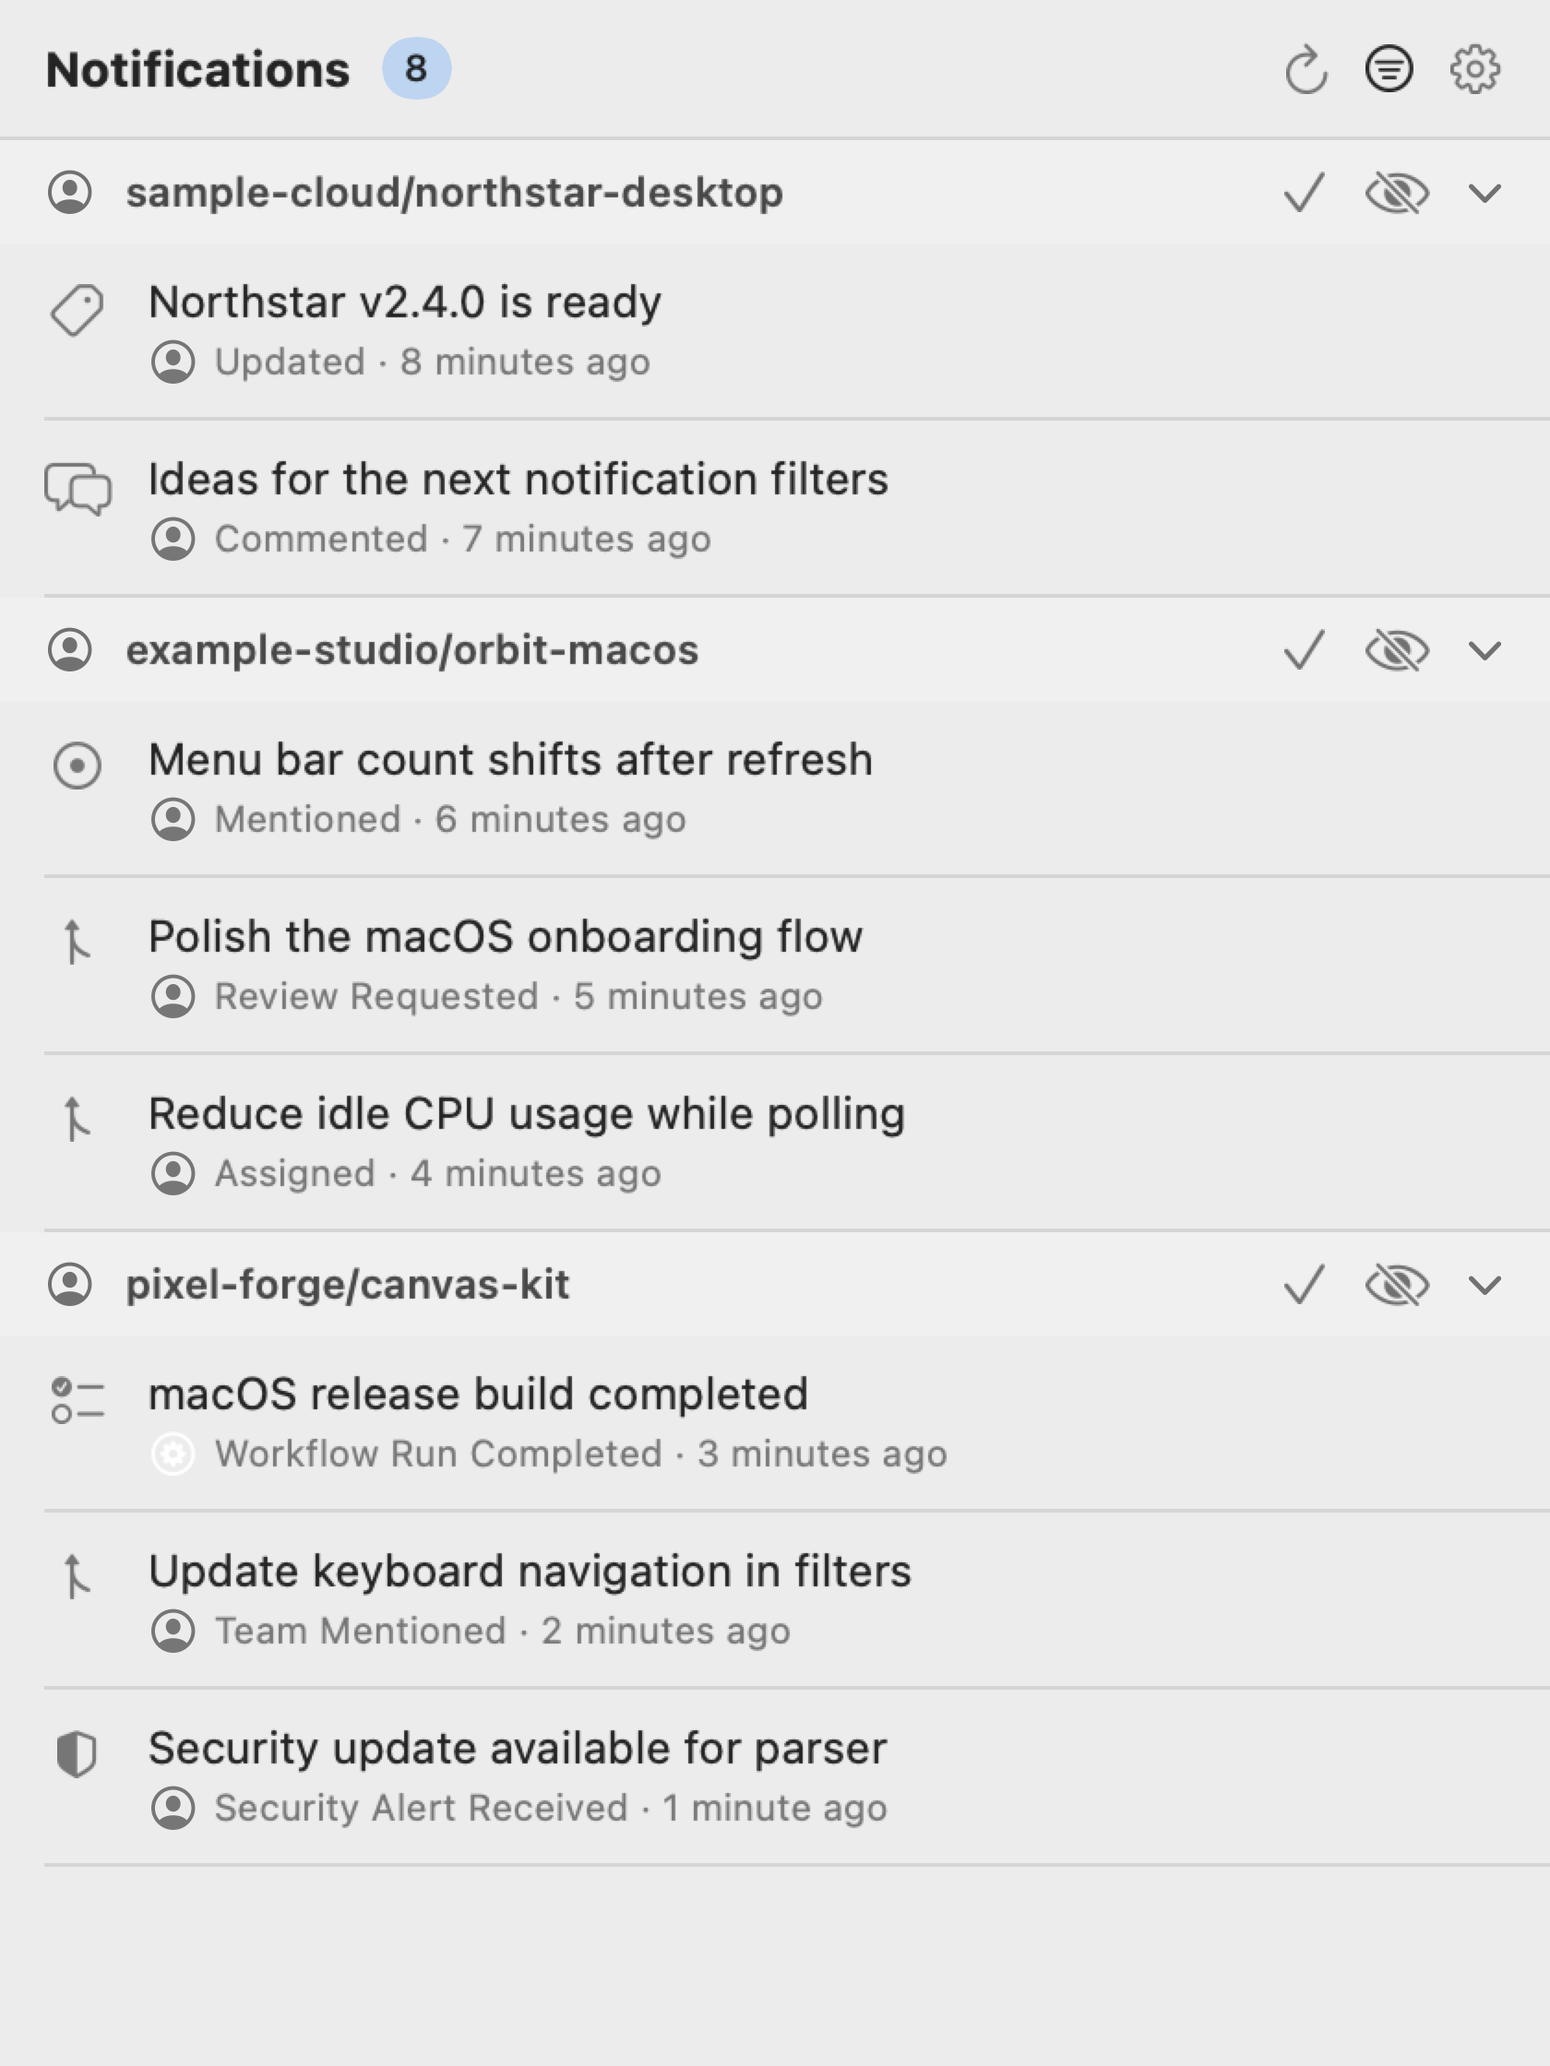
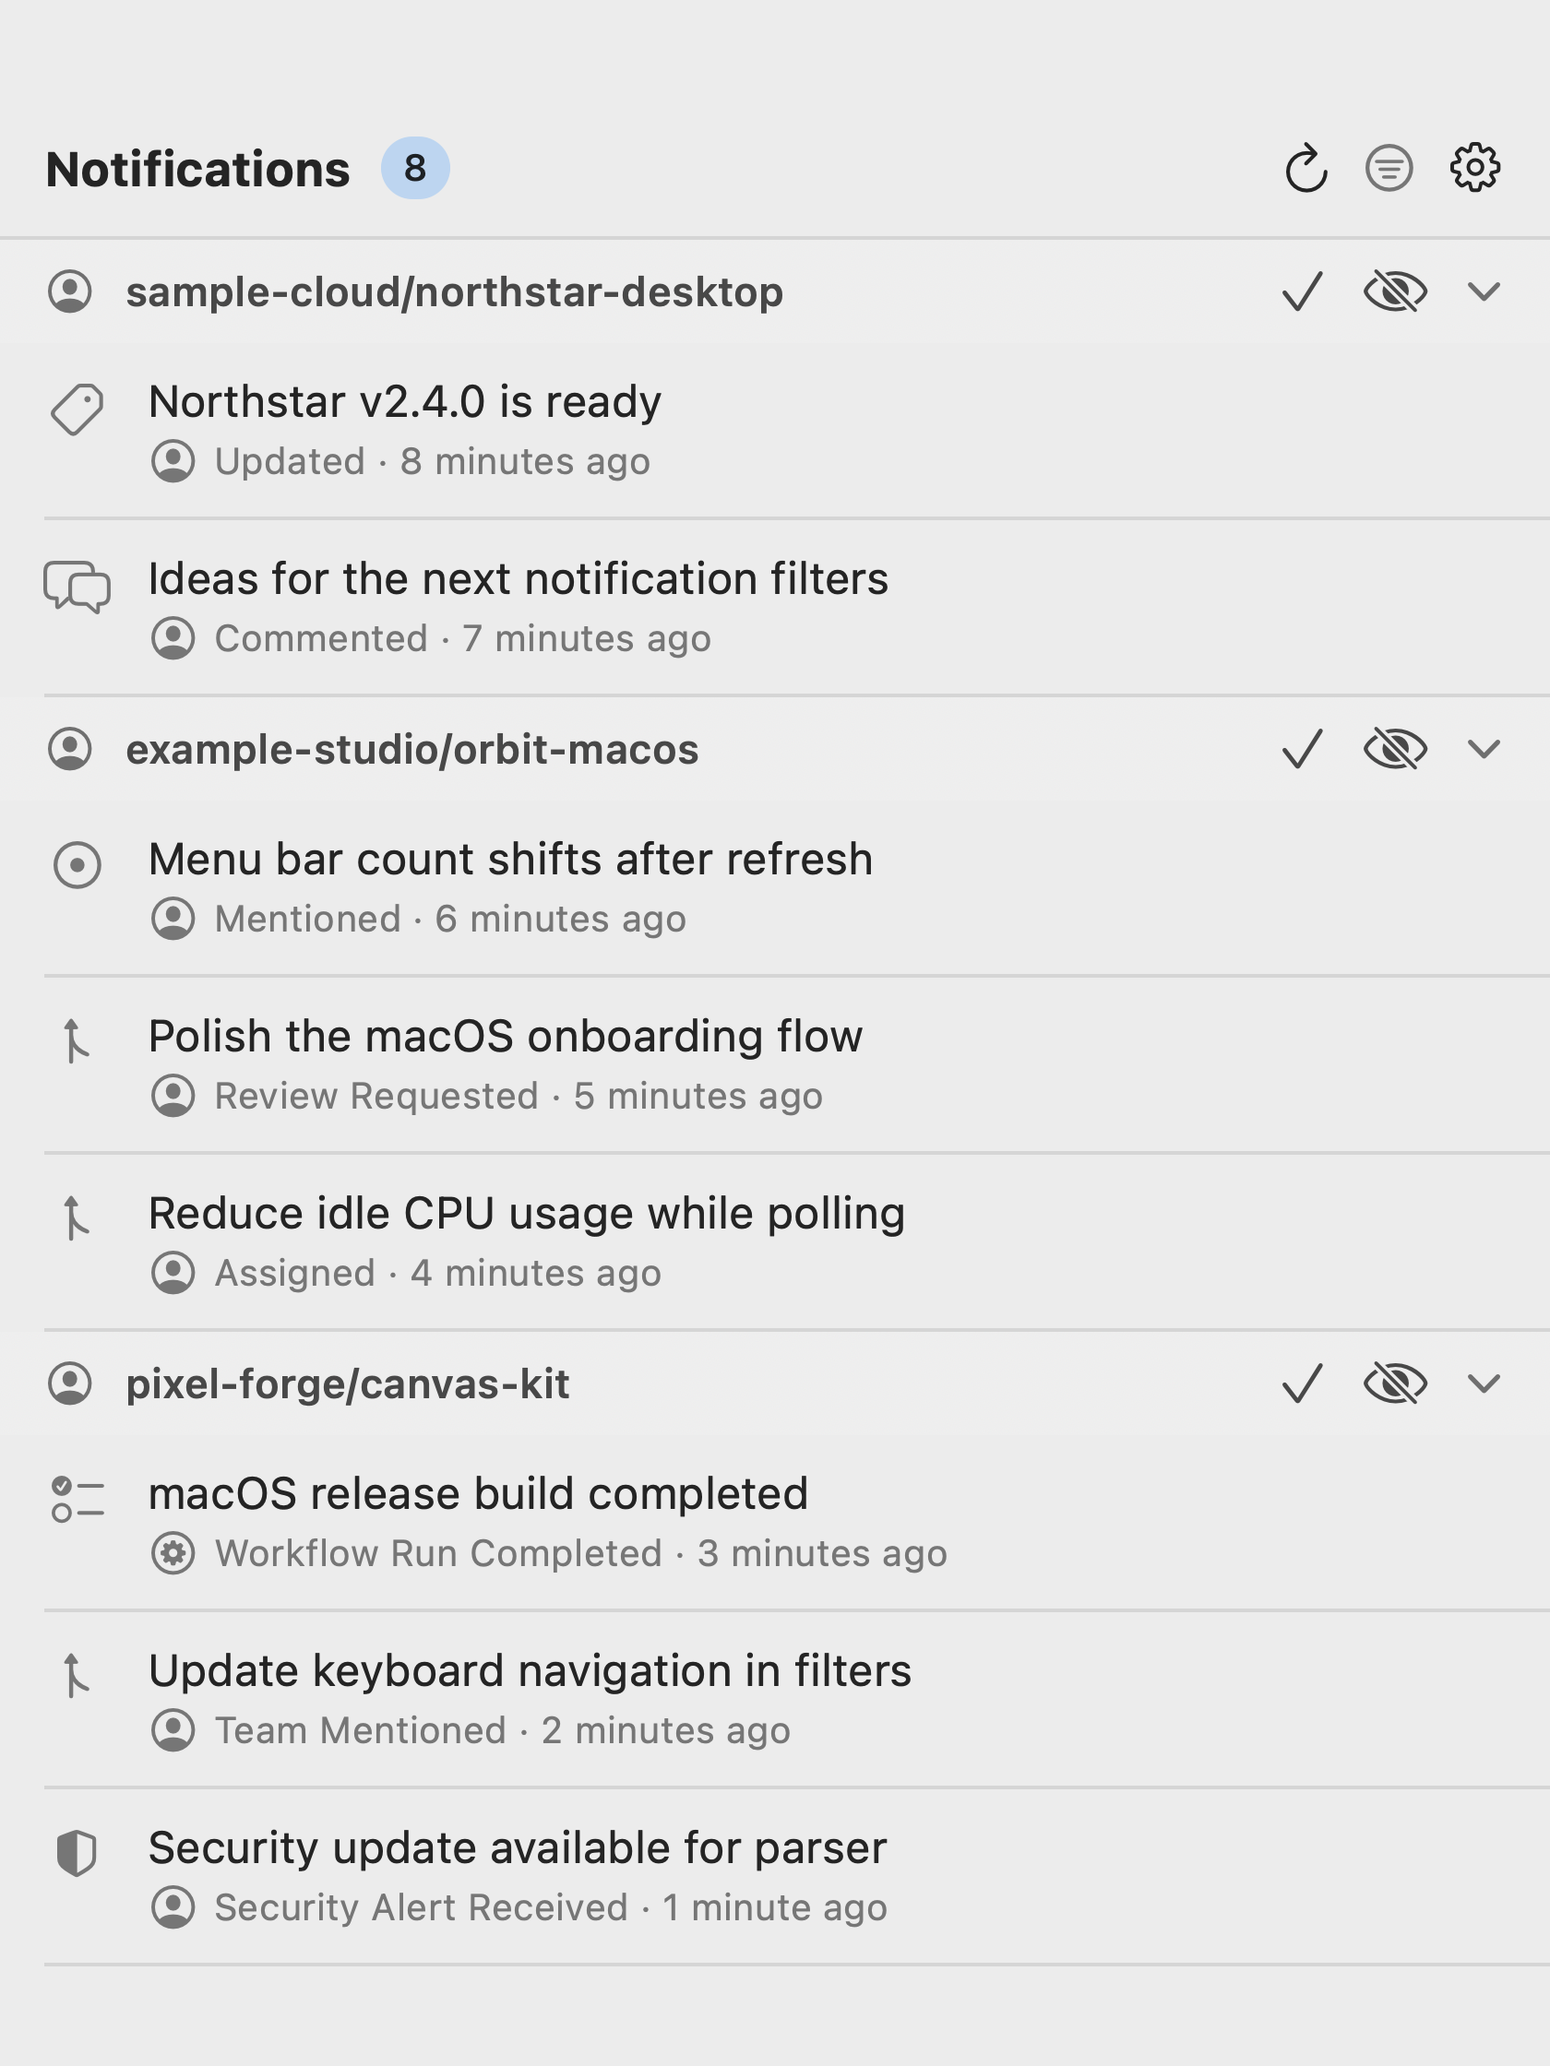
Redraw landing screenshot at true 4x density
Assisted-by: Codex:gpt-5.6-sol

diff --git a/Sources/UI/NotificationsListView.swift b/Sources/UI/NotificationsListView.swift
@@ -38,6 +38,22 @@ struct NotificationsListView: View {
             if notificationsStore.isFetching {
                 ProgressView().controlSize(.small)
             }
+            headerActions
+        }
+        .padding(.horizontal, 12)
+        .padding(.vertical, 10)
+    }
+
+    @ViewBuilder
+    private var headerActions: some View {
+        if UITestMock.isLandingScreenshot {
+            Image(systemName: "arrow.clockwise")
+            Image(systemName: filters.hasActiveFilters
+                ? "line.3.horizontal.decrease.circle.fill"
+                : "line.3.horizontal.decrease.circle")
+                .foregroundStyle(filters.hasActiveFilters ? Color.accentColor : Color.secondary)
+            Image(systemName: "gearshape")
+        } else {
             Button {
                 Task { await notificationsStore.fetch() }
             } label: {
@@ -59,8 +75,6 @@ struct NotificationsListView: View {
             .buttonStyle(.borderless)
             .help("Settings")
         }
-        .padding(.horizontal, 12)
-        .padding(.vertical, 10)
     }
 
     @ViewBuilder
@@ -84,33 +98,17 @@ struct NotificationsListView: View {
                         : "No new notifications."
                 )
             } else {
-                ScrollView {
-                    LazyVStack(spacing: 0, pinnedViews: .sectionHeaders) {
-                        ForEach(visibleGroups) { group in
-                            // Only an account whose header (and chevron) is
-                            // visible can be collapsed.
-                            let isAccountCollapsed = showAccountHeaders
-                                && collapsedAccounts.contains(group.id)
-                            if showAccountHeaders {
-                                AccountHeader(
-                                    account: group.account,
-                                    hasError: group.error != nil,
-                                    isCollapsed: isAccountCollapsed,
-                                    onToggleCollapse: { collapsedAccounts.toggle(group.id) }
-                                )
-                            }
-                            if !isAccountCollapsed {
-                                if let error = group.error {
-                                    inlineErrorBlock(error)
-                                } else {
-                                    switch settings.groupBy {
-                                    case .repository:
-                                        repositorySections(group)
-                                    case .date:
-                                        dateRows(group)
-                                    }
-                                }
-                            }
+                if UITestMock.isLandingScreenshot {
+                    // ImageRenderer has no viewport to drive scroll or lazy
+                    // layout. Materialize the deterministic fixture so every
+                    // real row is present in the 4× render.
+                    VStack(spacing: 0) {
+                        notificationGroups(visibleGroups)
+                    }
+                } else {
+                    ScrollView {
+                        LazyVStack(spacing: 0, pinnedViews: .sectionHeaders) {
+                            notificationGroups(visibleGroups)
                         }
                     }
                 }
@@ -120,6 +118,36 @@ struct NotificationsListView: View {
 
     private var showAccountHeaders: Bool {
         accountsStore.accounts.count > 1 || settings.showAccountHeader
+    }
+
+    @ViewBuilder
+    private func notificationGroups(_ visibleGroups: [AccountNotifications]) -> some View {
+        ForEach(visibleGroups) { group in
+            // Only an account whose header (and chevron) is visible can be
+            // collapsed.
+            let isAccountCollapsed = showAccountHeaders
+                && collapsedAccounts.contains(group.id)
+            if showAccountHeaders {
+                AccountHeader(
+                    account: group.account,
+                    hasError: group.error != nil,
+                    isCollapsed: isAccountCollapsed,
+                    onToggleCollapse: { collapsedAccounts.toggle(group.id) }
+                )
+            }
+            if !isAccountCollapsed {
+                if let error = group.error {
+                    inlineErrorBlock(error)
+                } else {
+                    switch settings.groupBy {
+                    case .repository:
+                        repositorySections(group)
+                    case .date:
+                        dateRows(group)
+                    }
+                }
+            }
+        }
     }
 
     // MARK: - Grouping modes
@@ -204,6 +232,28 @@ struct NotificationsListView: View {
             .buttonStyle(.plain)
             .help("Open repository")
             Spacer()
+            repositoryActions(repository: repository, account: account)
+            sectionCollapseToggle(
+                isCollapsed: isCollapsed,
+                label: repository.fullName,
+                action: onToggleCollapse
+            )
+        }
+        .padding(.horizontal, 12)
+        .padding(.vertical, 6)
+        // Lightest material that still masks rows scrolling under the pinned
+        // header; .bar reads as a heavy chrome strip on the popover material.
+        .background(.ultraThinMaterial)
+        .contentShape(Rectangle())
+        .onTapGesture(perform: onToggleCollapse)
+    }
+
+    @ViewBuilder
+    private func repositoryActions(repository: GHNotification.Repository, account: Account) -> some View {
+        if UITestMock.isLandingScreenshot {
+            Image(systemName: "checkmark")
+            Image(systemName: "eye.slash")
+        } else {
             Button {
                 Task { await notificationsStore.markRepoDone(fullName: repository.fullName, account: account) }
             } label: {
@@ -218,19 +268,7 @@ struct NotificationsListView: View {
             }
             .buttonStyle(.borderless)
             .help("Mark repository as read")
-            sectionCollapseToggle(
-                isCollapsed: isCollapsed,
-                label: repository.fullName,
-                action: onToggleCollapse
-            )
         }
-        .padding(.horizontal, 12)
-        .padding(.vertical, 6)
-        // Lightest material that still masks rows scrolling under the pinned
-        // header; .bar reads as a heavy chrome strip on the popover material.
-        .background(.ultraThinMaterial)
-        .contentShape(Rectangle())
-        .onTapGesture(perform: onToggleCollapse)
     }
 
     private func emptyState(

diff --git a/Sources/UI/LandingScreenshotRenderer.swift b/Sources/UI/LandingScreenshotRenderer.swift
@@ -1,43 +1,47 @@
 import AppKit
+import SwiftUI
 
-/// Produces the public landing-page image from the live popover view. Caching
-/// the already-laid-out view into a 4× bitmap preserves SwiftUI's native
-/// controls and symbols while avoiding the 1× display density of GitHub-hosted
-/// macOS runners without interpolating app pixels.
+/// Produces the public landing-page image by asking SwiftUI to redraw the
+/// popover at 4×. This does not depend on the CI runner's 1× window backing
+/// scale, so text and symbols contain real high-density pixels.
 @MainActor
 enum LandingScreenshotRenderer {
     static let pointSize = CGSize(width: 420, height: 560)
 
     enum RenderError: Error {
-        case unexpectedViewSize(CGSize)
-        case bitmapUnavailable
+        case imageUnavailable
+        case unexpectedPixelSize(width: Int, height: Int)
         case pngUnavailable
     }
 
-    static func write(view: NSView, to outputURL: URL) throws {
-        view.layoutSubtreeIfNeeded()
-        view.displayIfNeeded()
+    static func write(
+        settings: SettingsStore,
+        accountsStore: AccountsStore,
+        notificationsStore: NotificationsStore,
+        updateChecker: UpdateChecker,
+        to outputURL: URL
+    ) throws {
+        let content = PopoverRootView()
+            .environmentObject(settings)
+            .environmentObject(accountsStore)
+            .environmentObject(notificationsStore)
+            .environmentObject(notificationsStore.filters)
+            .environmentObject(updateChecker)
+        let renderer = ImageRenderer(content: content)
+        renderer.proposedSize = ProposedViewSize(pointSize)
+        renderer.scale = 4
+        renderer.isOpaque = true
 
-        guard view.bounds.size == pointSize else {
-            throw RenderError.unexpectedViewSize(view.bounds.size)
+        guard let image = renderer.cgImage else {
+            throw RenderError.imageUnavailable
         }
-        guard let bitmap = NSBitmapImageRep(
-            bitmapDataPlanes: nil,
-            pixelsWide: 1680,
-            pixelsHigh: 2240,
-            bitsPerSample: 8,
-            samplesPerPixel: 4,
-            hasAlpha: true,
-            isPlanar: false,
-            colorSpaceName: .deviceRGB,
-            bytesPerRow: 0,
-            bitsPerPixel: 0
-        ) else {
-            throw RenderError.bitmapUnavailable
+        let bitmap = NSBitmapImageRep(cgImage: image)
+        guard bitmap.pixelsWide == 1680, bitmap.pixelsHigh == 2240 else {
+            throw RenderError.unexpectedPixelSize(
+                width: bitmap.pixelsWide,
+                height: bitmap.pixelsHigh
+            )
         }
-        bitmap.size = pointSize
-        view.cacheDisplay(in: view.bounds, to: bitmap)
-
         guard let png = bitmap.representation(using: .png, properties: [:]) else {
             throw RenderError.pngUnavailable
         }

diff --git a/Tests/GitifyUITests/PopoverStabilityUITests.swift b/Tests/GitifyUITests/PopoverStabilityUITests.swift
@@ -71,6 +71,23 @@ final class PopoverStabilityUITests: XCTestCase {
         let representation = try! XCTUnwrap(NSImage(contentsOf: url)?.representations.first)
         XCTAssertEqual(representation.pixelsWide, 1680)
         XCTAssertEqual(representation.pixelsHigh, 2240)
+        let bitmap = try! XCTUnwrap(NSBitmapImageRep(data: try! Data(contentsOf: url)))
+        var prohibitedSymbolPixels = 0
+        for y in stride(from: 0, to: bitmap.pixelsHigh, by: 4) {
+            for x in stride(from: 0, to: bitmap.pixelsWide, by: 4) {
+                guard let color = bitmap.colorAt(x: x, y: y)?.usingColorSpace(.deviceRGB) else { continue }
+                if color.redComponent > 0.9,
+                   color.greenComponent > 0.55,
+                   color.blueComponent < 0.2
+                {
+                    prohibitedSymbolPixels += 1
+                }
+            }
+        }
+        XCTAssertEqual(
+            prohibitedSymbolPixels, 0,
+            "rendered screenshot should not contain SF Symbol prohibition placeholders"
+        )
         let fileSize = try! XCTUnwrap(
             (try? FileManager.default.attributesOfItem(atPath: url.path)[.size]) as? NSNumber
         )

diff --git a/Sources/App/StatusItemController.swift b/Sources/App/StatusItemController.swift
@@ -116,12 +116,17 @@ final class StatusItemController: NSObject {
               popover.isShown,
               !notificationsStore.isFetching,
               notificationsStore.unreadCount == UITestMock.notificationCount,
-              let outputURL = UITestMock.landingScreenshotOutputURL,
-              let view = popover.contentViewController?.view
+              let outputURL = UITestMock.landingScreenshotOutputURL
         else { return }
 
         do {
-            try LandingScreenshotRenderer.write(view: view, to: outputURL)
+            try LandingScreenshotRenderer.write(
+                settings: settings,
+                accountsStore: accountsStore,
+                notificationsStore: notificationsStore,
+                updateChecker: updateChecker,
+                to: outputURL
+            )
             didCaptureLandingScreenshot = true
         } catch {
             NSLog("Failed to capture landing screenshot: \(error)")

diff --git a/Tests/DistributionTests/validate_distribution.py b/Tests/DistributionTests/validate_distribution.py
@@ -19,6 +19,7 @@ APP_SCREENSHOT = SITE_ROOT / "assets/gitify-popover.png"
 PAGES_WORKFLOW = ROOT / ".github/workflows/pages.yml"
 SCREENSHOT_EXPORT_SCRIPT = ROOT / "scripts/export-landing-screenshot.sh"
 LANDING_SCREENSHOT_RENDERER = ROOT / "Sources/UI/LandingScreenshotRenderer.swift"
+NOTIFICATIONS_LIST_VIEW = ROOT / "Sources/UI/NotificationsListView.swift"
 
 
 class LandingPageParser(HTMLParser):
@@ -120,9 +121,14 @@ class LandingPageTests(unittest.TestCase):
         self.assertNotIn("--cropToHeightWidth", export_script)
         self.assertTrue(LANDING_SCREENSHOT_RENDERER.exists())
         renderer = LANDING_SCREENSHOT_RENDERER.read_text()
-        self.assertIn("cacheDisplay", renderer)
-        self.assertIn("pixelsWide: 1680", renderer)
-        self.assertIn("pixelsHigh: 2240", renderer)
+        self.assertIn("ImageRenderer", renderer)
+        self.assertIn("renderer.scale = 4", renderer)
+        self.assertNotIn("cacheDisplay", renderer)
+        self.assertIn("pixelsWide == 1680", renderer)
+        self.assertIn("pixelsHigh == 2240", renderer)
+        notifications_view = NOTIFICATIONS_LIST_VIEW.read_text()
+        self.assertIn("if UITestMock.isLandingScreenshot", notifications_view)
+        self.assertIn("VStack(spacing: 0)", notifications_view)
         self.assertIn("path: docs/site", workflow)
         self.assertIn("contents: read", workflow)
         self.assertIn("pages: write", workflow)

diff --git a/docs/superpowers/specs/2026-09-22-distribution-and-landing-design.md b/docs/superpowers/specs/2026-09-22-distribution-and-landing-design.md
@@ -53,9 +53,11 @@ one-time quarantine removal required by macOS.
 ## Landing Page
 
 The site lives in `docs/site/` as plain HTML and CSS. It uses the existing app icon
-and an actual app screenshot produced during XCUITest from the live popover view at
-a fixed 4× resolution. It has no JavaScript, external fonts, analytics, package
-manager, or web build step.
+and an actual app screenshot produced during XCUITest from the popover's live store
+state with SwiftUI ImageRenderer at a fixed 4× resolution. The screenshot fixture
+materializes the list outside its normal lazy scroll container so every row is
+drawn at the requested density. It has no JavaScript, external fonts, analytics,
+package manager, or web build step.
 
 The page contains:
 
@@ -77,7 +79,7 @@ the application and repository documentation.
 ## GitHub Pages Deployment
 
 `.github/workflows/pages.yml` uses a macOS runner to launch the app with the
-landing-page UI fixture, render the live popover into a 1680×2240 bitmap, and
+landing-page UI fixture, render the populated popover into a 1680×2240 bitmap, and
 replace the committed fallback image before it deploys `docs/site/` with the
 official Pages Actions. The export rejects any other dimensions instead of scaling
 a lower-density capture. It runs on
